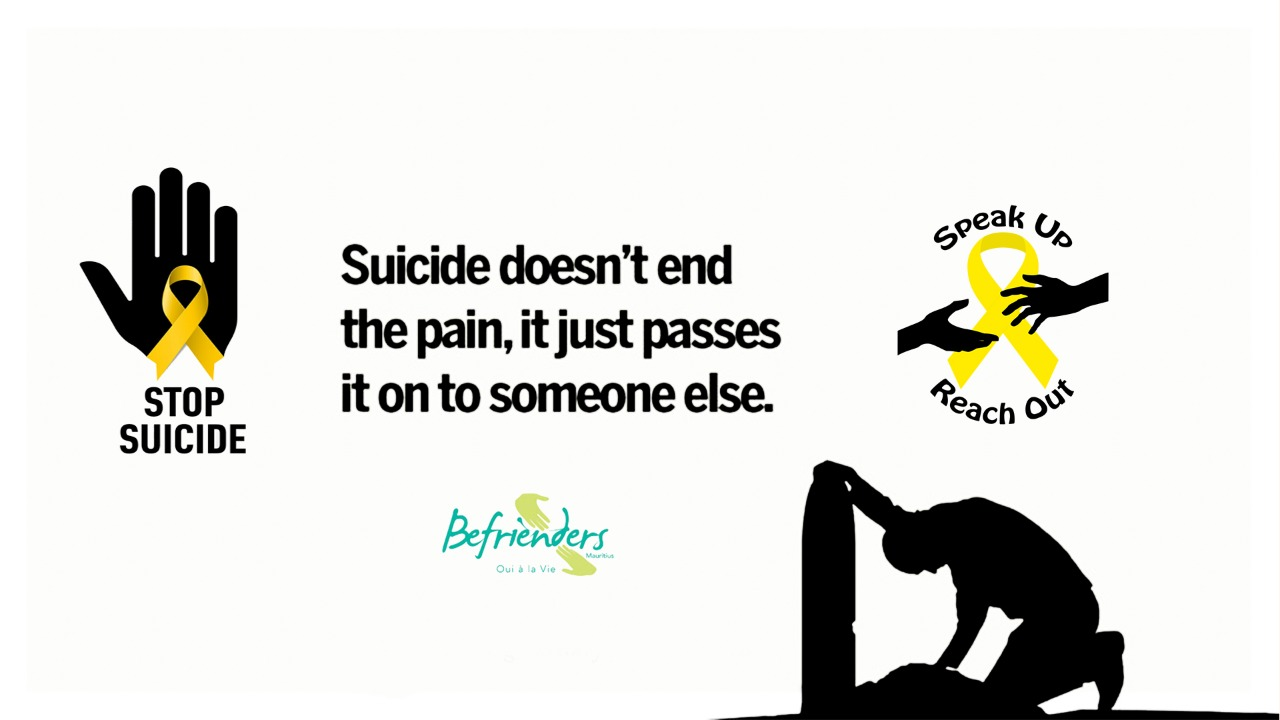
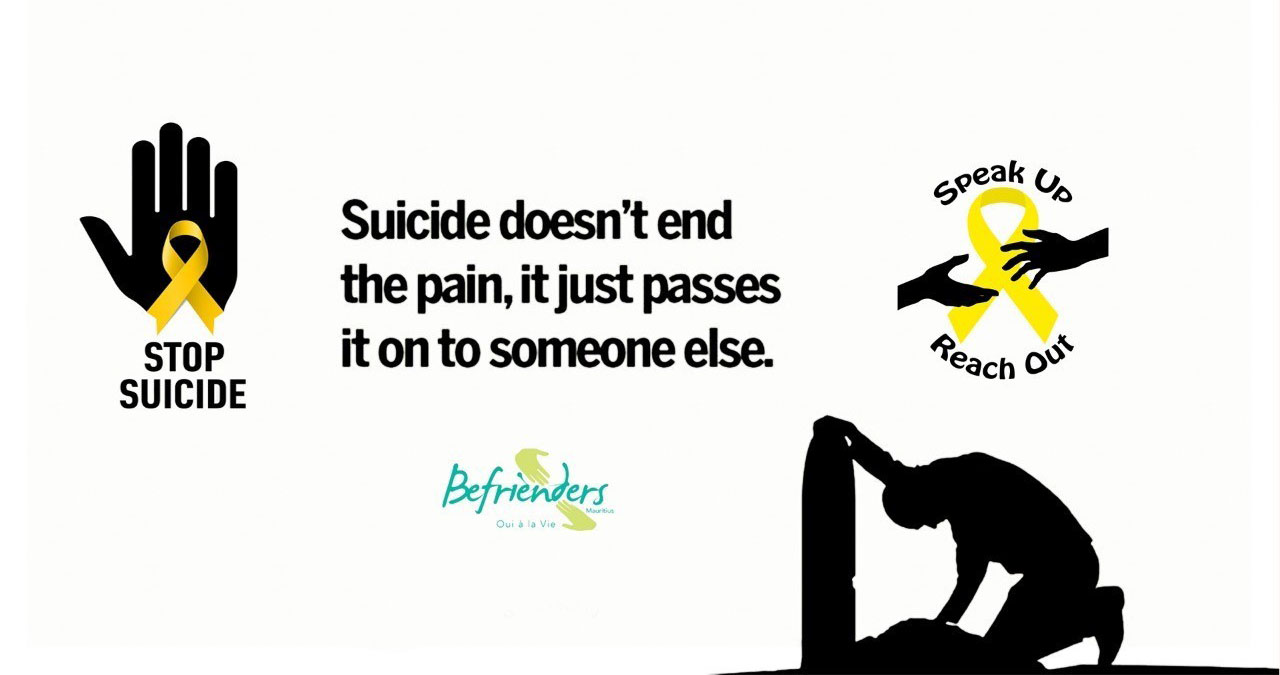
+Final index --testimonial check

diff --git a/befrienders/css/index.css b/befrienders/css/index.css
@@ -469,6 +469,11 @@ h2
     }
 
     /*Carousel*/
+    #banner
+    {
+        margin-top: 20px;
+    }
+
     .carousel-control-prev-icon,
     .carousel-control-next-icon 
     {

diff --git a/befrienders/index.php b/befrienders/index.php
@@ -15,8 +15,6 @@
         <script src="https://cdnjs.cloudflare.com/ajax/libs/popper.js/1.12.9/umd/popper.min.js"></script>
         <script src="https://maxcdn.bootstrapcdn.com/bootstrap/4.0.0/js/bootstrap.min.js"></script>
 		<link rel="stylesheet" href="https://stackpath.bootstrapcdn.com/font-awesome/4.7.0/css/font-awesome.min.css">
-		<link href="https://unpkg.com/aos@2.3.1/dist/aos.css" rel="stylesheet">
-		<script src="https://unpkg.com/aos@2.3.1/dist/aos.js"></script>
 		<link rel="stylesheet" href="./css/index.css">
 		<title>HOMEPAGE || BEFRIENDERS</title>
   	</head>
@@ -53,6 +51,7 @@
 	            	<li><a href="#aboutUs">ABOUT US</a></li>
                     <li><a href="#contactUs">CONTACT US</a></li>
                     <li><a href="#needHelp">NEED HELP?</a></li>
+					<li><a href="">EMERGENCY</a></li>
 	          </ul>
 	        </nav>
 
@@ -94,11 +93,11 @@
 				<h2>About Us</h2>
 				<div class="row">
                     <div class="col-md-6">
-						<img src="<?php echo $data[3][2]; ?>" data-aos="fade-right">
+						<img src="<?php echo $data[3][2]; ?>">
 					</div>
 
 					<div class="col-md-6">
-						<div id="aboutContent" data-aos="fade-left">
+						<div id="aboutContent">
 							<p>
                             	<?php echo $data[3][3]?>
 							</p>
@@ -112,8 +111,8 @@
         <!--Our Team-->
 		<section class="teamdetails">            
 			<h2>Our Team</h2>
-			<img src="<?php echo $data[4][2]; ?>" data-aos="zoom-in">
-			<p style="font-style: italic;" data-aos="zoom-in">Befrienders Mauritius Team</p>
+			<img src="<?php echo $data[4][2]; ?>">
+			<p style="font-style: italic;">Befrienders Mauritius Team</p>
 			<p><?php echo $data[4][3] ?></p>
         </section>
 
@@ -123,7 +122,7 @@
 			<div class="container">
 				<h2>Our Promise</h2>
 				<div class="row">
-					<div class="col-md-4 text-center" data-aos="slide-up">
+					<div class="col-md-4 text-center">
 						<div id="icon">
 							<i class="fa fa-trophy"></i>
 						</div>
@@ -131,7 +130,7 @@
 						<p><?php echo $data[5][3] ?></p>                    
 					</div> 
 
-					<div class="col-md-4 text-center" data-aos="slide-up">
+					<div class="col-md-4 text-center">
 						<div id="icon">
 							<i class="fa fa-eye"></i>
 						</div>   
@@ -139,7 +138,7 @@
 						<p><?php echo $data[6][3] ?></p>                
 					</div>
 
-					<div class="col-md-4 text-center" data-aos="slide-up">
+					<div class="col-md-4 text-center">
 						<div id="icon">
 							<i class="fa fa-key"></i>
 						</div>
@@ -158,7 +157,7 @@
 			<h2>Need Help?</h2>
 			<div class="container-fluid">
 				<div class="row">
-					<div class="col-sm-3" data-aos="fade-right">
+					<div class="col-sm-3">
 						<div id="emergency">
 							<h6 style="color: #005f20;">CHAT WITH US</h6>
 							<a href="chat.html" target="blank"><i class="fa fa-headphones"></i></a>
@@ -177,7 +176,7 @@
 							<p><a href="tel:115"><span id="emerlink">Tel: 115</span></a></p>
 						</div>
 					</div>
-					<div class="col-sm-3" id="problem" data-aos="zoom-in">
+					<div class="col-sm-3" id="problem">
 						<h5>Why you have problems?</h5>
 						<ul>
 							<li>You cannot face difficulties in your personal life, family life, professional life
@@ -191,7 +190,7 @@
 							<li>You couldn't achieve your ambitions.</li>
 						</ul>
 					</div>
-					<div class="col-sm-3" id="happen" data-aos="zoom-in">
+					<div class="col-sm-3" id="happen">
 						<h5>What happens when you have problem?</h5>
 						<p style="font-weight: bold">You feel discouraged, sad, and feel like quitting everything and go... </p>
 						<ul>
@@ -207,7 +206,7 @@
 							<li><b>Suicide is not a solution</b></li>
 						</ul>
 					</div>
-					<div class="col-sm-3" id="effect" data-aos="zoom-in">
+					<div class="col-sm-3" id="effect">
 					<h5>What effect problems have on you?</h5>
 						<p style="font-weight: bold">You can</p>
 						<ul>
@@ -258,7 +257,7 @@
 			<div class="container">
 				<h2>Get In Touch</h2>
 				<div class="row">
-                    <div class="col-md-6 contact-info" data-aos="fade-right">   
+                    <div class="col-md-6 contact-info">   
 						<div class="follow"><b><?php echo $data[8][4] ?> </b><i class="fa fa-map-marker"></i><span id="contactl"><?php echo $data[8][3] ?></span></div>
 						<div class="follow" style="color: #fc3903; font-size: 18px;"><b><?php echo $data[9][4] ?> </b><i class="fa fa-phone"></i><a href="tel:+2308009393"><span id="contactl"><?php echo $data[9][3] ?></span></a></div>                             
 						<div class="follow"><b><?php echo $data[10][4] ?> </b><i class="fa fa-phone"></i><a href="tel:+2304670160"><span id="contactl"><?php echo $data[10][3] ?></span></a></div>
@@ -271,7 +270,7 @@
                     </div>
 
                     <div class="col-md-6">
-						<div id="map" data-aos="zoom-in">
+						<div id="map">
 						<iframe src="https://www.google.com/maps/embed?pb=!1m18!1m12!1m3!1d59900.560071149346!2d57.43296797910154!3d-20.226253199999977!2m3!1f0!2f0!3f0!3m2!1i1024!2i768!4f13.1!3m3!1m2!1s0x217c5b920f420c69%3A0xbfea6c7d66e17059!2sBefrienders%20Mauritius!5e0!3m2!1sen!2smu!4v1604692225860!5m2!1sen!2smu" width="600" height="450" frameborder="0" style="border:0;" allowfullscreen="" aria-hidden="false" tabindex="0"></iframe>
 						</div>
                     </div>
@@ -283,7 +282,7 @@
 		<div class="footer">
 	        <img id="logoFooter" src="">
 	        <img src="./img/logo.png">
-	        <p>&copy; 2020 All rights reserved</p>
+	        <p>&copy; 2021 All rights reserved</p>
 		</div>
 
 		<!--Navigation Bar Javascript-->

diff --git a/befrienders/connection.php b/befrienders/connection.php
@@ -7,12 +7,6 @@
 	$password='';
 	$database='nem644_befriendersmauritius';
 
-	//connecting to database
-	// $servername='localhost';
-	// $username='root';
-	// $password='';
-	// $database='nem644_befriendersmauritius';
-
 	$connection=mysqli_connect($servername,$username,$password,$database);
 	$conn=mysqli_connect($servername,$username,$password,$database);
 
